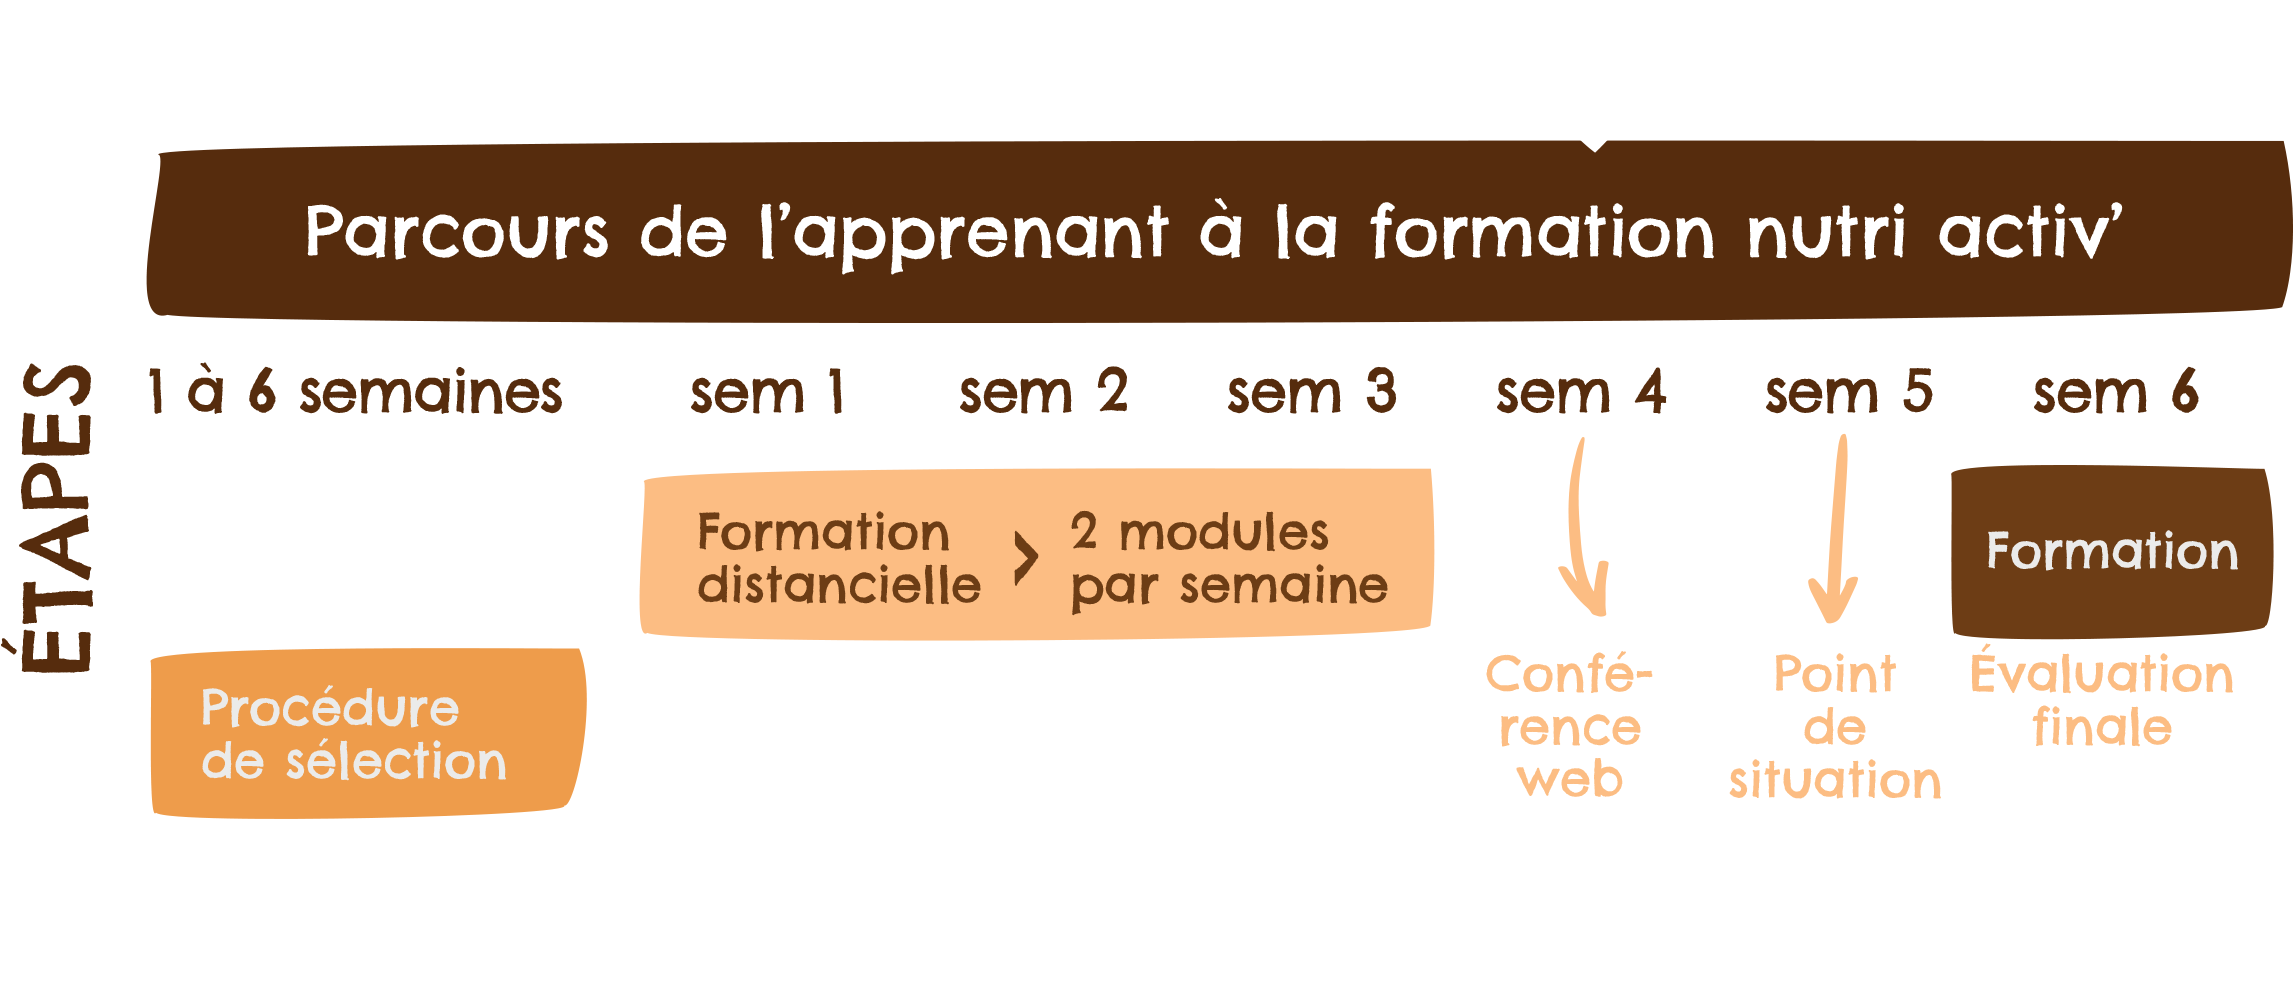
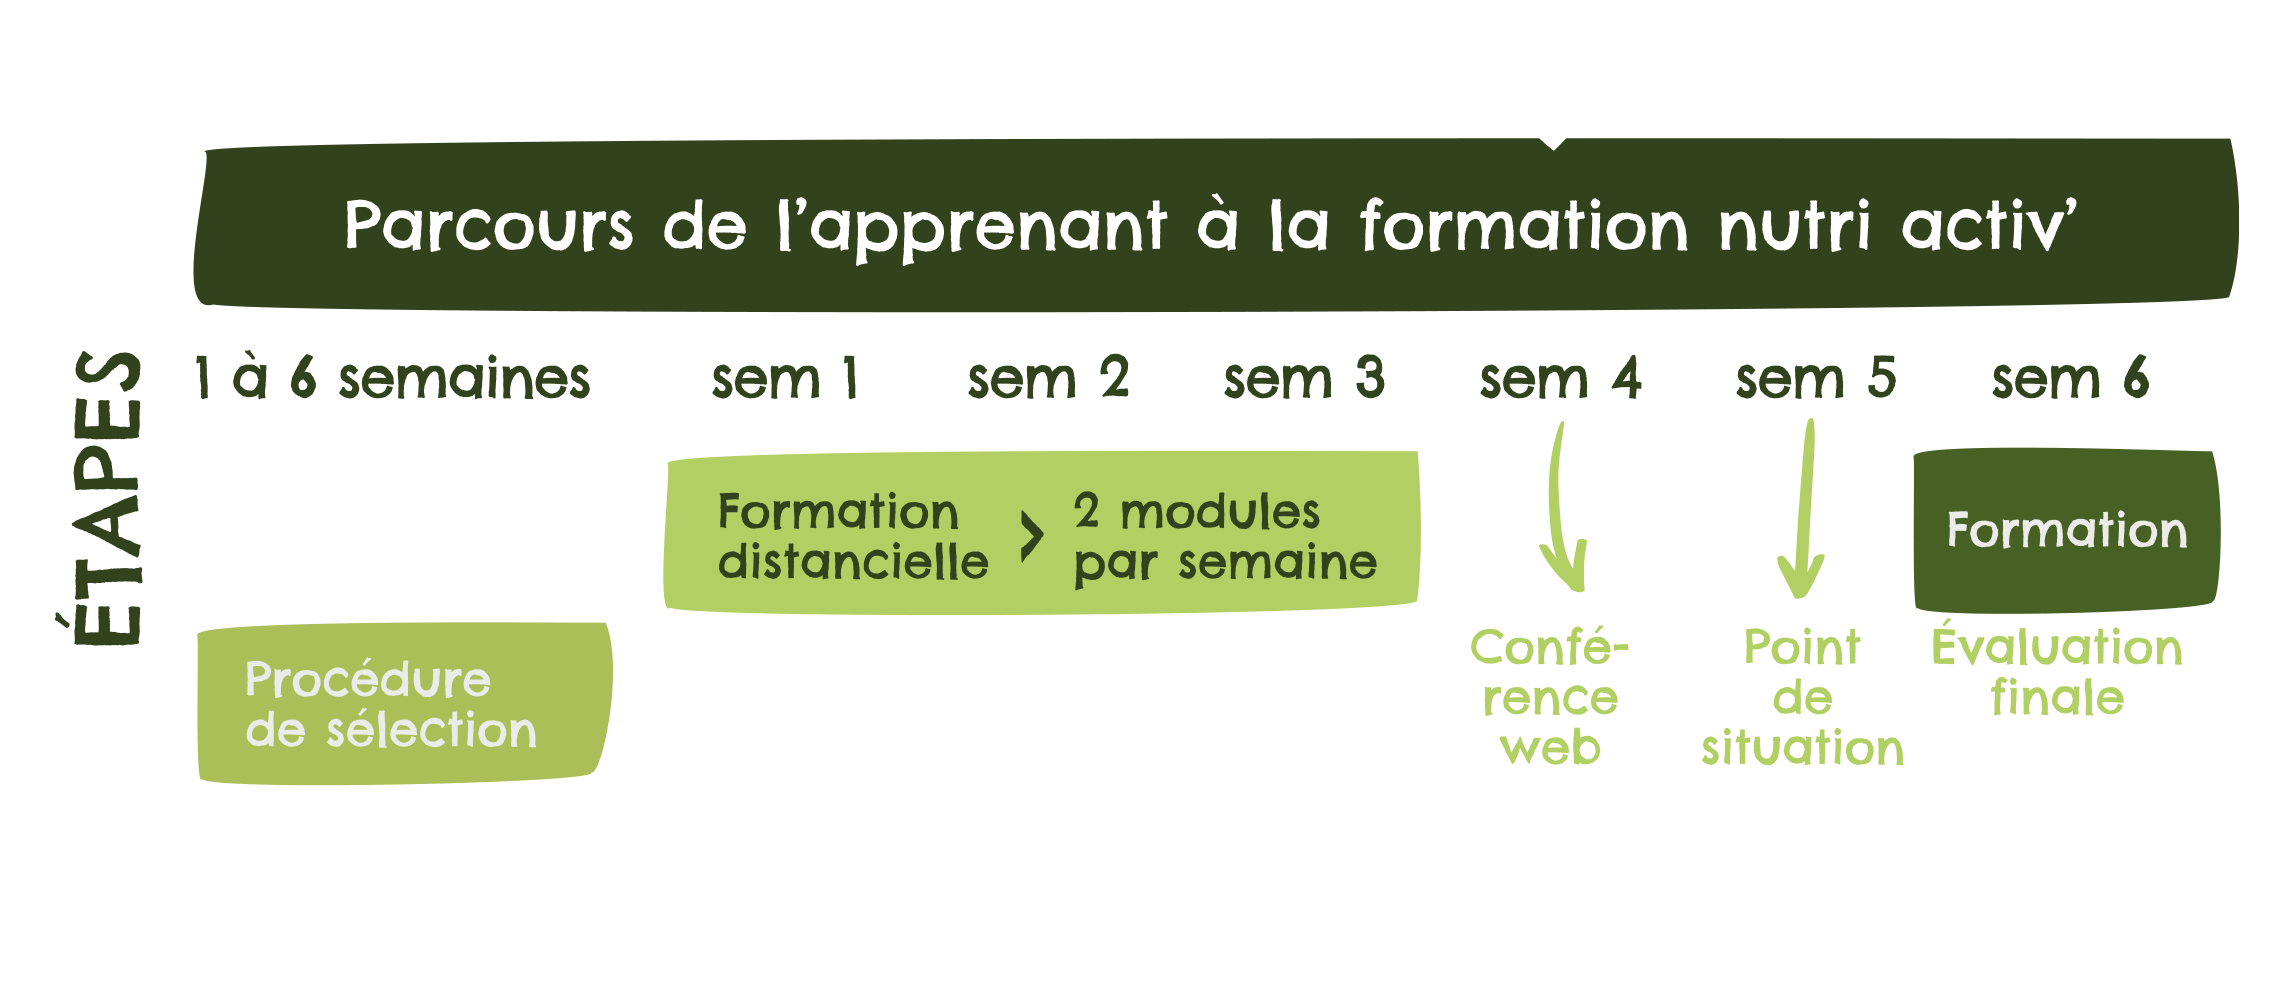
first correction wave from olivier

diff --git a/src/theme/theme.scss b/src/theme/theme.scss
@@ -1,6 +1,11 @@
 $black: #000000;
 $blue00: #00aec3;
 $blue03: #034147;
+$brown4D: #4d2f0b;
+$brown92: #926225;
+$brownCF: #cf7e14;
+$brownE1: #e18915;
+$brownFF: #ffe6c7;
 $gray22: #222222;
 $gray44: #444444;
 $grayC4: #c4c4c4;
@@ -11,31 +16,27 @@ $green03: #034148;
 $green1E: #1e8840;
 $green2B: #2b5c5b;
 $green35: #354f1b;
+$green79: #79a42d;
 $green8A: #88b75b;
 $greenB1: #b1f56e;
+$pink68: #682e48;
+$pink71: #712435;
+$pinkB2: #b27b97;
+$pinkEA: #ea4d6f;
+$pinkF4: #f4cbe3;
 $red70: #701328;
 $red: #f1677c;
 $redF7: #f75507;
+$teal24: #245657;
+$teal5A: #5abebf;
 $teal: #75b7b7;
+$tealB0: #b0e6ef;
 $white: #ffffff;
 $yellow59: #594312;
-$yellowFD: #fdaf18;
-
-$brown92: #926225;
-$brownCF: #cf7e14;
-$brownFF: #ffe6c7;
-$pinkEA: #ea4d6f;
-$pink71: #712435;
-$pinkB2: #b27b97;
-$yellowE3: #e3ab1f;
-$teal24: #245657;
 $yellow7F: #7f692f;
-$teal5A: #5abebf;
-$tealB0: #b0e6ef;
-$green79: #79a42d;
 $yellowC2: #c2f7ba;
-$pinkF4: #f4cbe3;
-$brownE1: #e18915;
+$yellowE3: #e3ab1f;
+$yellowFD: #fdaf18;
 
 @mixin font($family, $weight) {
   font-family: $family;

diff --git a/src/modules/module-2/chapter-2/page-3.tsx b/src/modules/module-2/chapter-2/page-3.tsx
@@ -10,14 +10,16 @@ const Page: FC = () => {
     <PageContainer>
       <Title>Les principes du rythme alimentaire</Title>
       <Paragraph>
-        <Img src={img} mode="avatar-lg" />
+        <Img src={img} mode="fullscreen" />
       </Paragraph>
       <Paragraph className={cs.paragraph} align="left">
         <List className={cs.list}>
-          <ListItem>Faire 3 repas</ListItem>
-          <ListItem>Eviter le grignotage</ListItem>
-          <ListItem>Possibilité de prendre une collation le matin ou l’après-midi</ListItem>
-          <ListItem>Respecter des horaires de repas fixes</ListItem>
+          <ListItem className={cs.listItem}>Faire 3 repas</ListItem>
+          <ListItem className={cs.listItem}>Eviter le grignotage</ListItem>
+          <ListItem className={cs.listItem}>
+            Possibilité de prendre une collation le matin ou l’après-midi
+          </ListItem>
+          <ListItem className={cs.listItem}>Respecter des horaires de repas fixes</ListItem>
         </List>
       </Paragraph>
     </PageContainer>

diff --git a/src/modules/page-components/img.tsx b/src/modules/page-components/img.tsx
@@ -1,18 +1,18 @@
-import React, {FC} from "react"
-import cn from "classnames"
+import React, {FC} from "react";
+import cn from "classnames";
 
-import cs from "./img.module.scss"
+import cs from "./img.module.scss";
 
 type ImgProps = {
-  className?: string
-  title?: string
-  src: string
-  mode: "avatar-md" | "avatar-lg" | "fullscreen"
-}
+  className?: string;
+  title?: string;
+  src: string;
+  mode: "avatar-md" | "avatar-lg" | "avatar-xl" | "halfscreen" | "fullscreen";
+};
 
-const Img: FC<ImgProps> = props => {
-  const {className, src, mode, title} = props
-  return <img className={cn(cs.img, className)} src={src} alt="" title={title} data-mode={mode} />
-}
+const Img: FC<ImgProps> = (props) => {
+  const {className, src, mode, title} = props;
+  return <img className={cn(cs.img, className)} src={src} alt="" title={title} data-mode={mode} />;
+};
 
-export default Img
+export default Img;

diff --git a/src/modules/page-templates/conclusion.tsx b/src/modules/page-templates/conclusion.tsx
@@ -1,23 +1,21 @@
-import React, {FC} from "react"
+import React, {FC} from "react";
 
-import PageContainer from "../page"
-import {Title, Paragraph, Img} from "../page-components"
-
-import cs from "./conclusion.module.scss"
+import PageContainer from "../page";
+import {Title, Paragraph, Img} from "../page-components";
 
 type PageConclusionProps = {
-  img: string
-}
+  img: string;
+};
 
 const PageConclusion: FC<PageConclusionProps> = ({img, children}) => {
   return (
     <PageContainer>
       <Title>{children}</Title>
       <Paragraph>
-        <Img src={img} className={cs.img} mode="fullscreen" />
+        <Img src={img} mode="fullscreen" />
       </Paragraph>
     </PageContainer>
-  )
-}
+  );
+};
 
-export default PageConclusion
+export default PageConclusion;

diff --git a/src/modules/module-6/chapter-3/page-1.tsx b/src/modules/module-6/chapter-3/page-1.tsx
@@ -9,22 +9,22 @@ const Page: FC = () => {
       layout="quiz"
       title="Quiz n°1"
       img={img}
-      statment="21 g de sucres sont équivalent à :"
+      statment="21 g de sucres sont équivalent à combien de morceaux de sucre ?"
       choices={[
         {
-          label: "1 morceau de sucre",
+          label: "1 morceau",
           isTrue: false,
         },
         {
-          label: "2 morceaux de sucre",
+          label: "2 morceaux",
           isTrue: false,
         },
         {
-          label: "3 morceaux de sucre",
+          label: "3 morceaux",
           isTrue: false,
         },
         {
-          label: "4 morceaux de sucre",
+          label: "4 morceaux",
           isTrue: true,
         },
       ]}

diff --git a/src/modules/module-3/chapter-2/page-7.tsx b/src/modules/module-3/chapter-2/page-7.tsx
@@ -11,11 +11,11 @@ const Page: FC = () => {
     <PageContainer>
       <Title>Les recommandations</Title>
       <Grid padder>
-        <Img src={img1} mode="avatar-md" />
+        <Img src={img1} mode="avatar-lg" />
         <Paragraph bold>Penser à s’échauffer au début et s’étirer à la fin</Paragraph>
-        <Img src={img2} mode="avatar-md" />
+        <Img src={img2} mode="avatar-lg" />
         <Paragraph bold>Penser à s’hydrater</Paragraph>
-        <Img src={img3} mode="avatar-md" />
+        <Img src={img3} mode="avatar-lg" />
         <Paragraph bold>Adapter son environnement (sécurité, espace, aération …)</Paragraph>
       </Grid>
       <br />

diff --git a/src/modules/module-6/chapter-3/page-2.tsx b/src/modules/module-6/chapter-3/page-2.tsx
@@ -12,19 +12,19 @@ const Page: FC = () => {
       statment="7 g de lipides sont équivalent à combien de cuillères à café d’huile ?"
       choices={[
         {
-          label: "1 cuillère d’huile",
+          label: "1 cuillère",
           isTrue: true,
         },
         {
-          label: "2 cuillères d’huile",
+          label: "2 cuillères",
           isTrue: false,
         },
         {
-          label: "3 cuillères d’huile",
+          label: "3 cuillères",
           isTrue: false,
         },
         {
-          label: "4 cuillères d’huile",
+          label: "4 cuillères",
           isTrue: false,
         },
       ]}

diff --git a/src/modules/module-6/chapter-3/page-4.tsx b/src/modules/module-6/chapter-3/page-4.tsx
@@ -20,7 +20,7 @@ const Page: FC = () => {
           isTrue: true,
         },
       ]}
-      answer="FAUX : Consommer un produit dont la DLC (Date Limite de Consommation) est dépassée comporte toujours un risque car la charge bactérienne peut être importante. A contrario, un produit dont la DDM (Date de Durabilité Minimale) est dépassée peut être consommé sans danger."
+      answer="FAUX : Consommer un produit dont la DLC est dépassée comporte toujours un risque car la charge bactérienne peut être importante. A contrario, un produit dont la DDM est dépassée peut être consommé sans danger."
     />
   );
 };

diff --git a/src/modules/page-components/subtitle.module.scss b/src/modules/page-components/subtitle.module.scss
@@ -4,28 +4,19 @@
 .subtitleContainer {
   @include font("Chelsea Market", 400);
   color: $white;
-  font-size: 1.25rem;
+  font-size: 1.5rem;
+  line-height: 1;
   margin-top: -0.5rem;
   text-align: center;
 
   @include media(lg) {
-    font-size: 2.5rem;
-    margin-top: -1.75rem;
+    font-size: 1.25rem;
+    margin-top: -1rem;
   }
 
   @include media(md) {
-    font-size: 2rem;
-    margin-top: -1.5rem;
-  }
-
-  @include media(sm) {
-    font-size: 1.5rem;
-    margin-top: -1.25rem;
-  }
-
-  @include media(xs) {
-    font-size: 1.5rem;
-    margin-top: -1rem;
+    font-size: 1rem;
+    margin-top: -0.5rem;
   }
 }
 

diff --git a/src/modules/module-6/chapter-2/page-2.tsx b/src/modules/module-6/chapter-2/page-2.tsx
@@ -16,9 +16,9 @@ const Page: FC = () => {
         Pour faciliter la lecture des étiquettes nous utiliserons le code suivant :
       </Paragraph>
       <Grid>
-        <Img src={img1} mode="avatar-md" />
+        <Img src={img1} mode="avatar-lg" />
         <Paragraph bold>5 g de sucres = 1 morceau de sucre</Paragraph>
-        <Img src={img2} mode="avatar-md" />
+        <Img src={img2} mode="avatar-lg" />
         <Paragraph bold>
           5 g de lipide (AGS*) = 1 cuillère à café d’huile <br />
           <em className={cs.subparagraph}>*Acide Gras Saturé</em>

diff --git a/src/modules/page.module.scss b/src/modules/page.module.scss
@@ -45,7 +45,6 @@
   @include font("Poppins", 400);
   color: $white;
   font-size: 1rem;
-  opacity: 0.75;
   text-align: center;
 }
 
@@ -94,6 +93,7 @@
 
 .quizMultipleTitle {
   font-size: 1.5rem;
+  margin: 0;
   opacity: 1;
 }
 
@@ -182,7 +182,7 @@
   color: $white;
   display: flex;
   max-width: 42rem;
-  padding: 3rem 3rem 6rem 3rem;
+  padding: 3rem 3rem 5rem 3rem;
   position: relative;
   transform: translateY(-1.5rem);
   width: 100%;

diff --git a/src/modules/module-4/chapter-2/page-4.tsx b/src/modules/module-4/chapter-2/page-4.tsx
@@ -10,9 +10,7 @@ const Page: FC = () => {
   return (
     <PageContainer>
       <Title>Hydratation</Title>
-      <Subtitle>
-        <strong>Recommandations du Programme National Nutrition Santé</strong>
-      </Subtitle>
+      <Subtitle>Recommandations du Programme National Nutrition Santé</Subtitle>
       <Grid position="center top" padder>
         <Img src={img1} mode="avatar-md" />
         <Paragraph>
